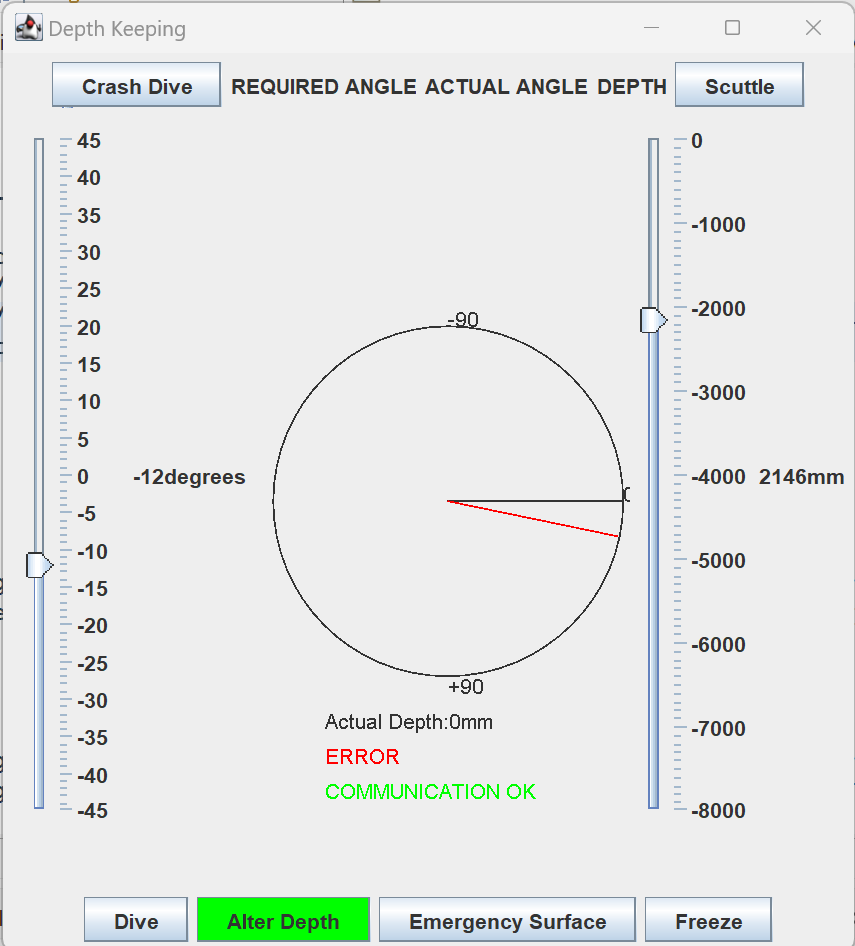
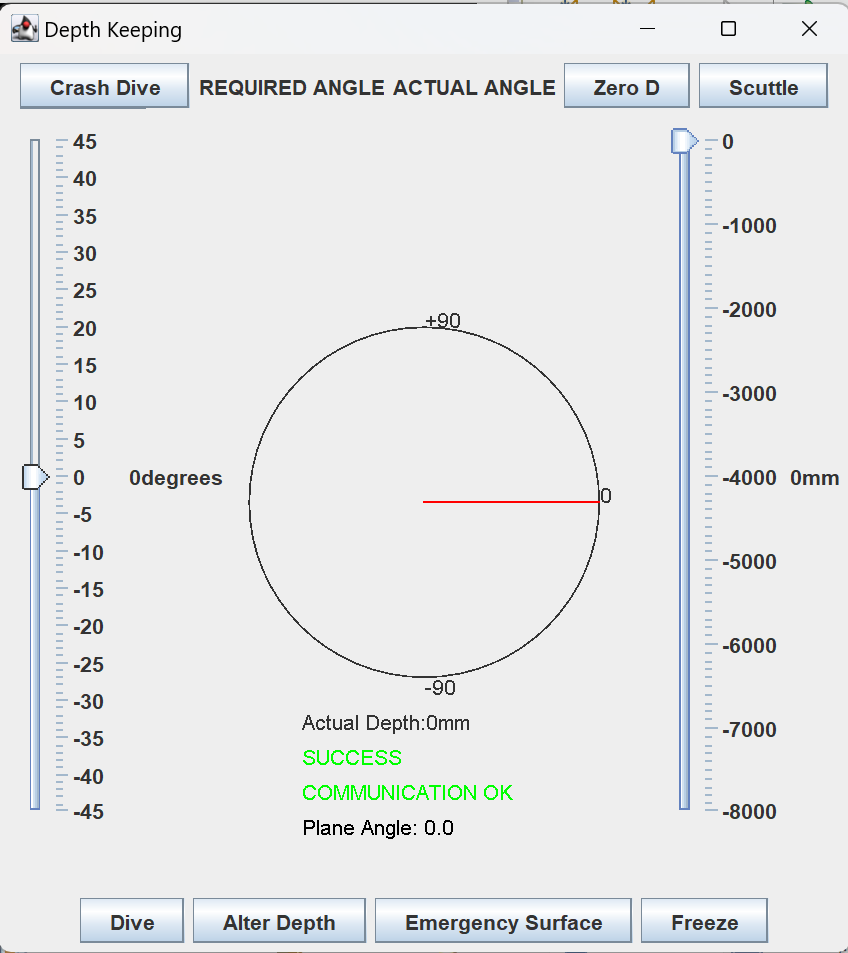
updated diagram

diff --git a/src/DepthKeeping.java b/src/DepthKeeping.java
@@ -2,6 +2,7 @@ import java.awt.BorderLayout;
 import java.awt.Color;
 import java.awt.Dimension;
 import java.awt.Graphics;
+import java.net.URI;
 
 import javax.swing.BorderFactory;
 import javax.swing.JButton;
@@ -383,12 +384,12 @@ public class DepthKeeping {
 		frame.add(rightpanel, BorderLayout.EAST);
 		JLabel leftTitle = new JLabel("REQUIRED ANGLE", SwingConstants.LEFT);
 		JLabel middleTitle = new JLabel("ACTUAL ANGLE", SwingConstants.CENTER);
-		JLabel rightTitle = new JLabel("DEPTH", SwingConstants.RIGHT);
+		JButton offsetButton = new JButton("Zero D");
 		JPanel toppanel = new JPanel();
 		toppanel.add(crashDive);
 		toppanel.add(leftTitle);
 		toppanel.add(middleTitle);
-		toppanel.add(rightTitle);
+		toppanel.add(offsetButton);
 		toppanel.add(scuttle);
 
 		// Adding the panel to the frame
@@ -439,6 +440,25 @@ public class DepthKeeping {
 			}
 			diveAngleGauge.repaint();
 		});
+		offsetButton.addActionListener(e -> {
+			String url  = ("/dive/depth");
+			int zeroDepth = 0;
+			try {
+				zeroDepth = GenericGet.getGeneric(url+"/"+zeroDepth);
+				error = COMMS_OK;
+			} catch (RuntimeException e1) { //need something other end, if COMMS_LOST this won't work.
+				error = COMMS_LOST;
+				e1.printStackTrace();
+			}
+			try {
+				GenericGet.getGeneric(url+"/"+zeroDepth);
+				error = COMMS_OK;
+			} catch (RuntimeException e1) { //need something other end, if COMMS_LOST this won't work.
+				error = COMMS_LOST;
+				e1.printStackTrace();
+			}
+		});
+
 		alterDepth.addActionListener(e -> {
 			isAlterDepthAngleSet = !isAlterDepthAngleSet;
 			if (!isAlterDepthAngleSet) {
